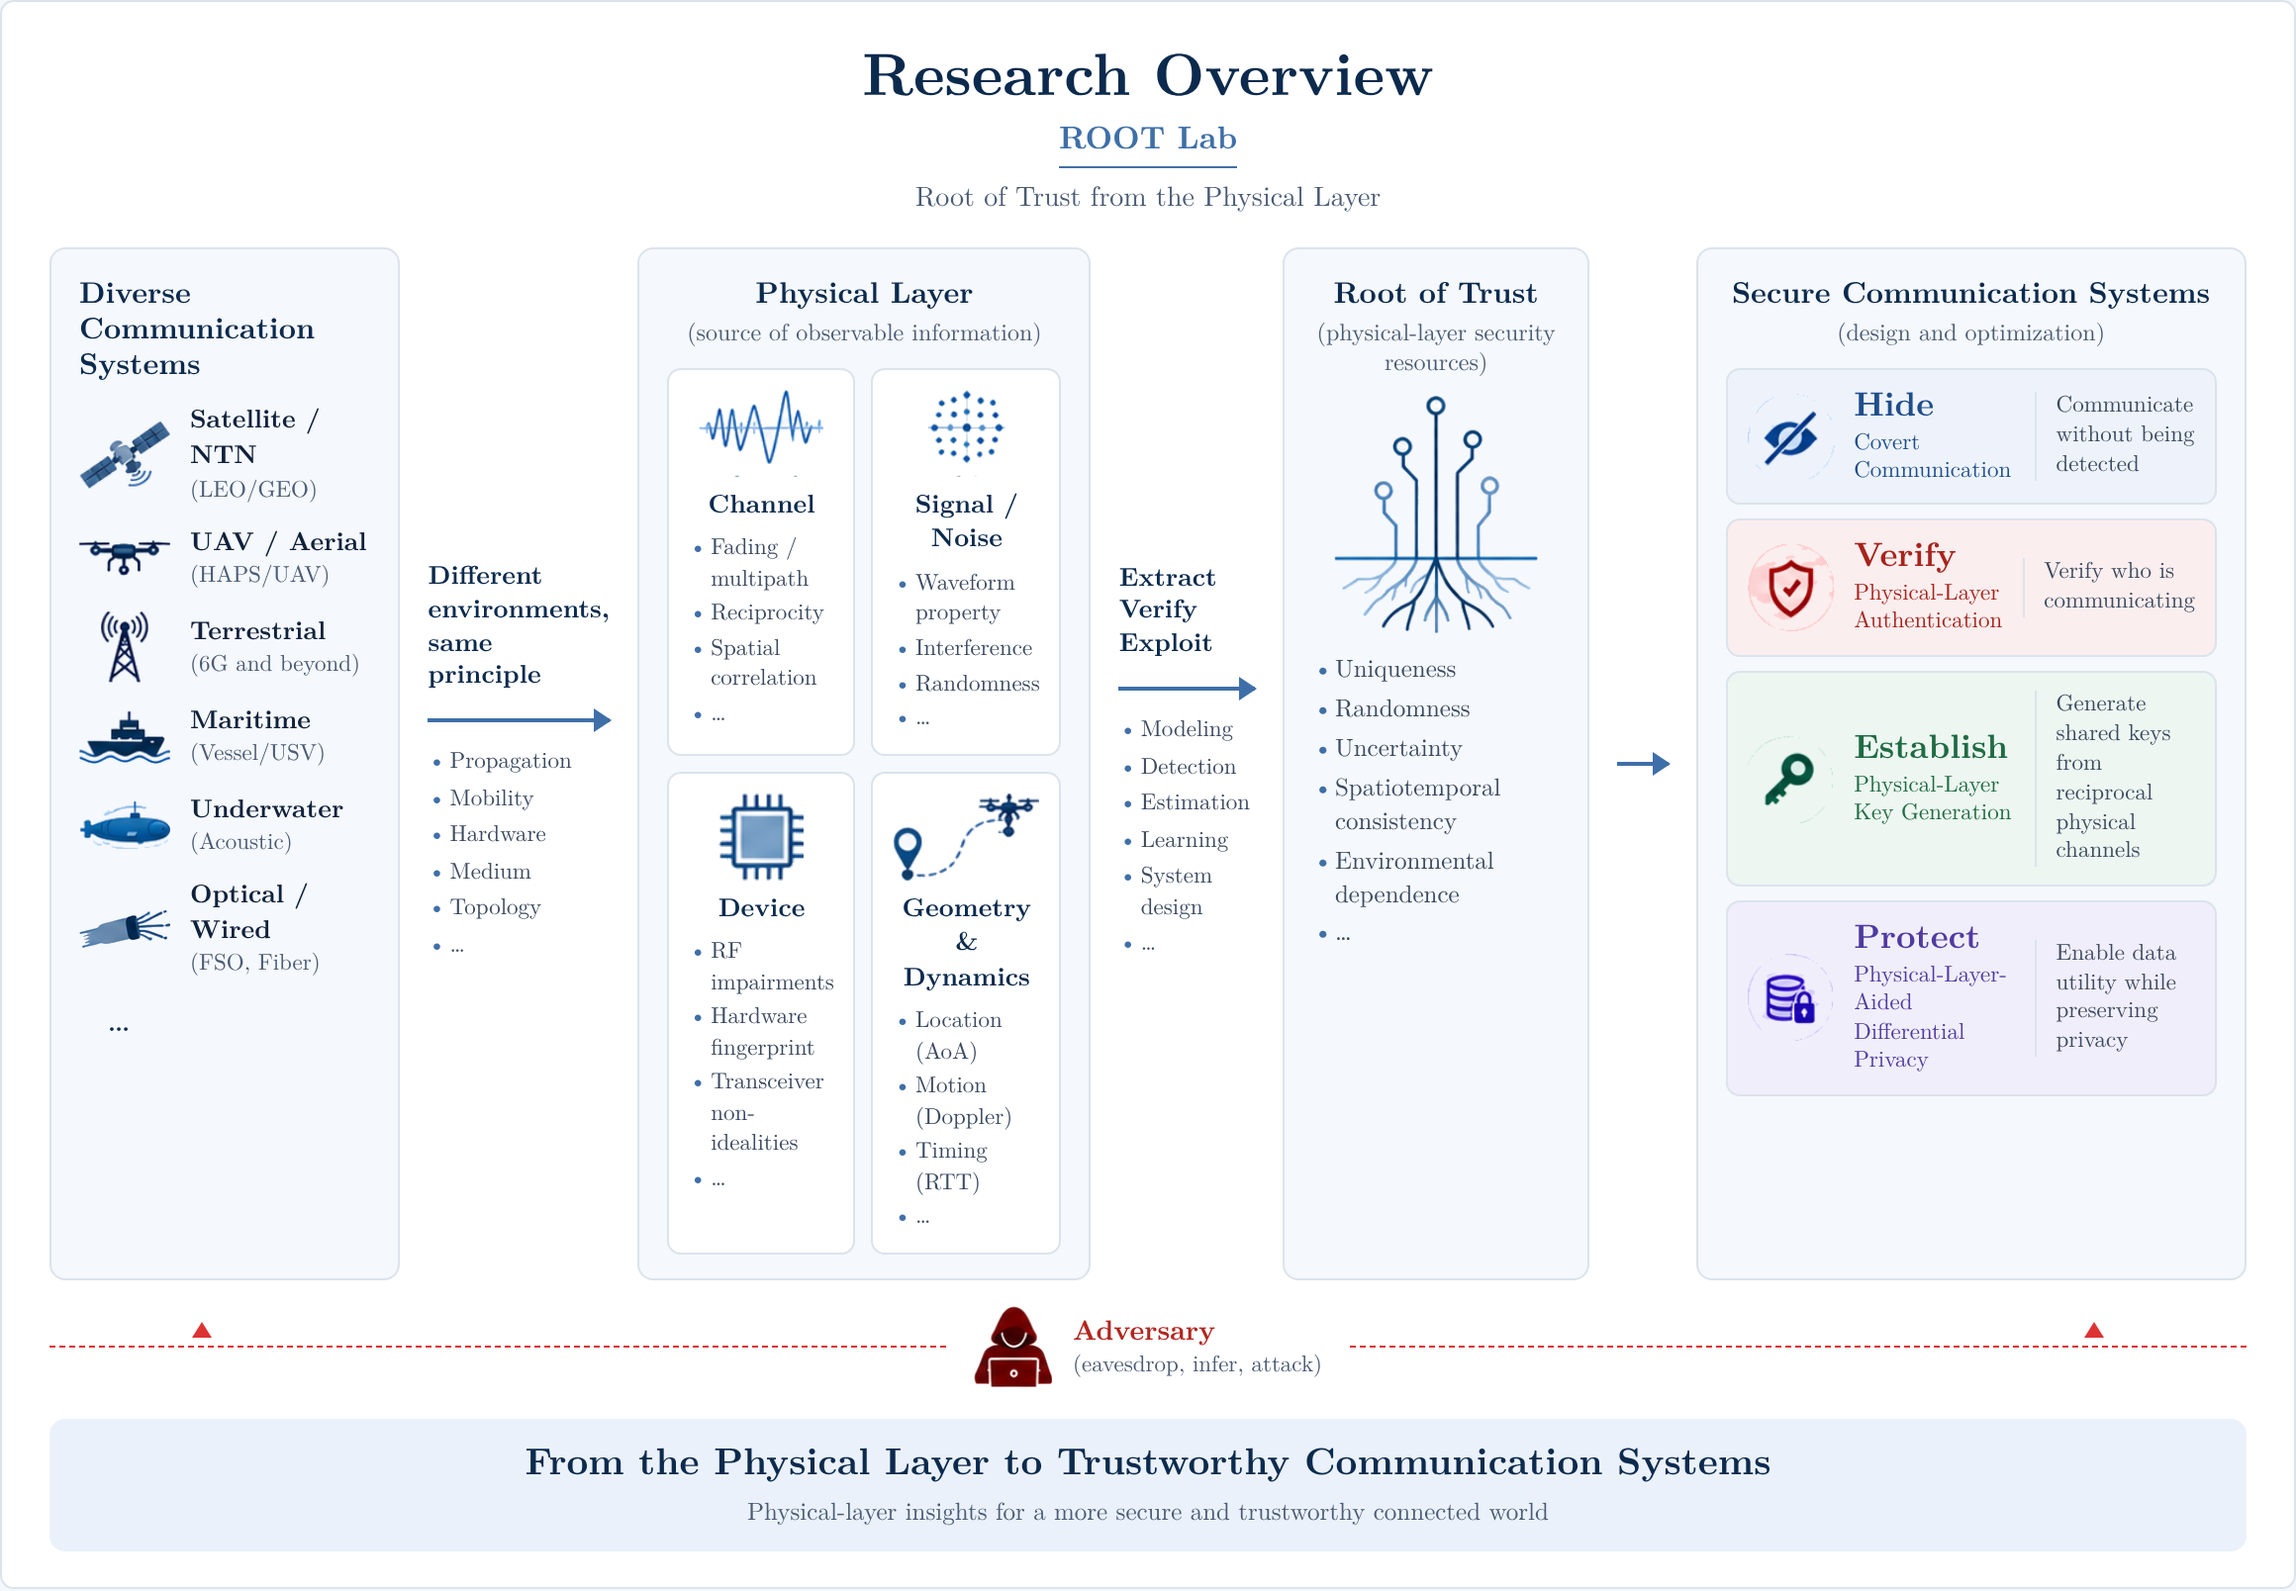
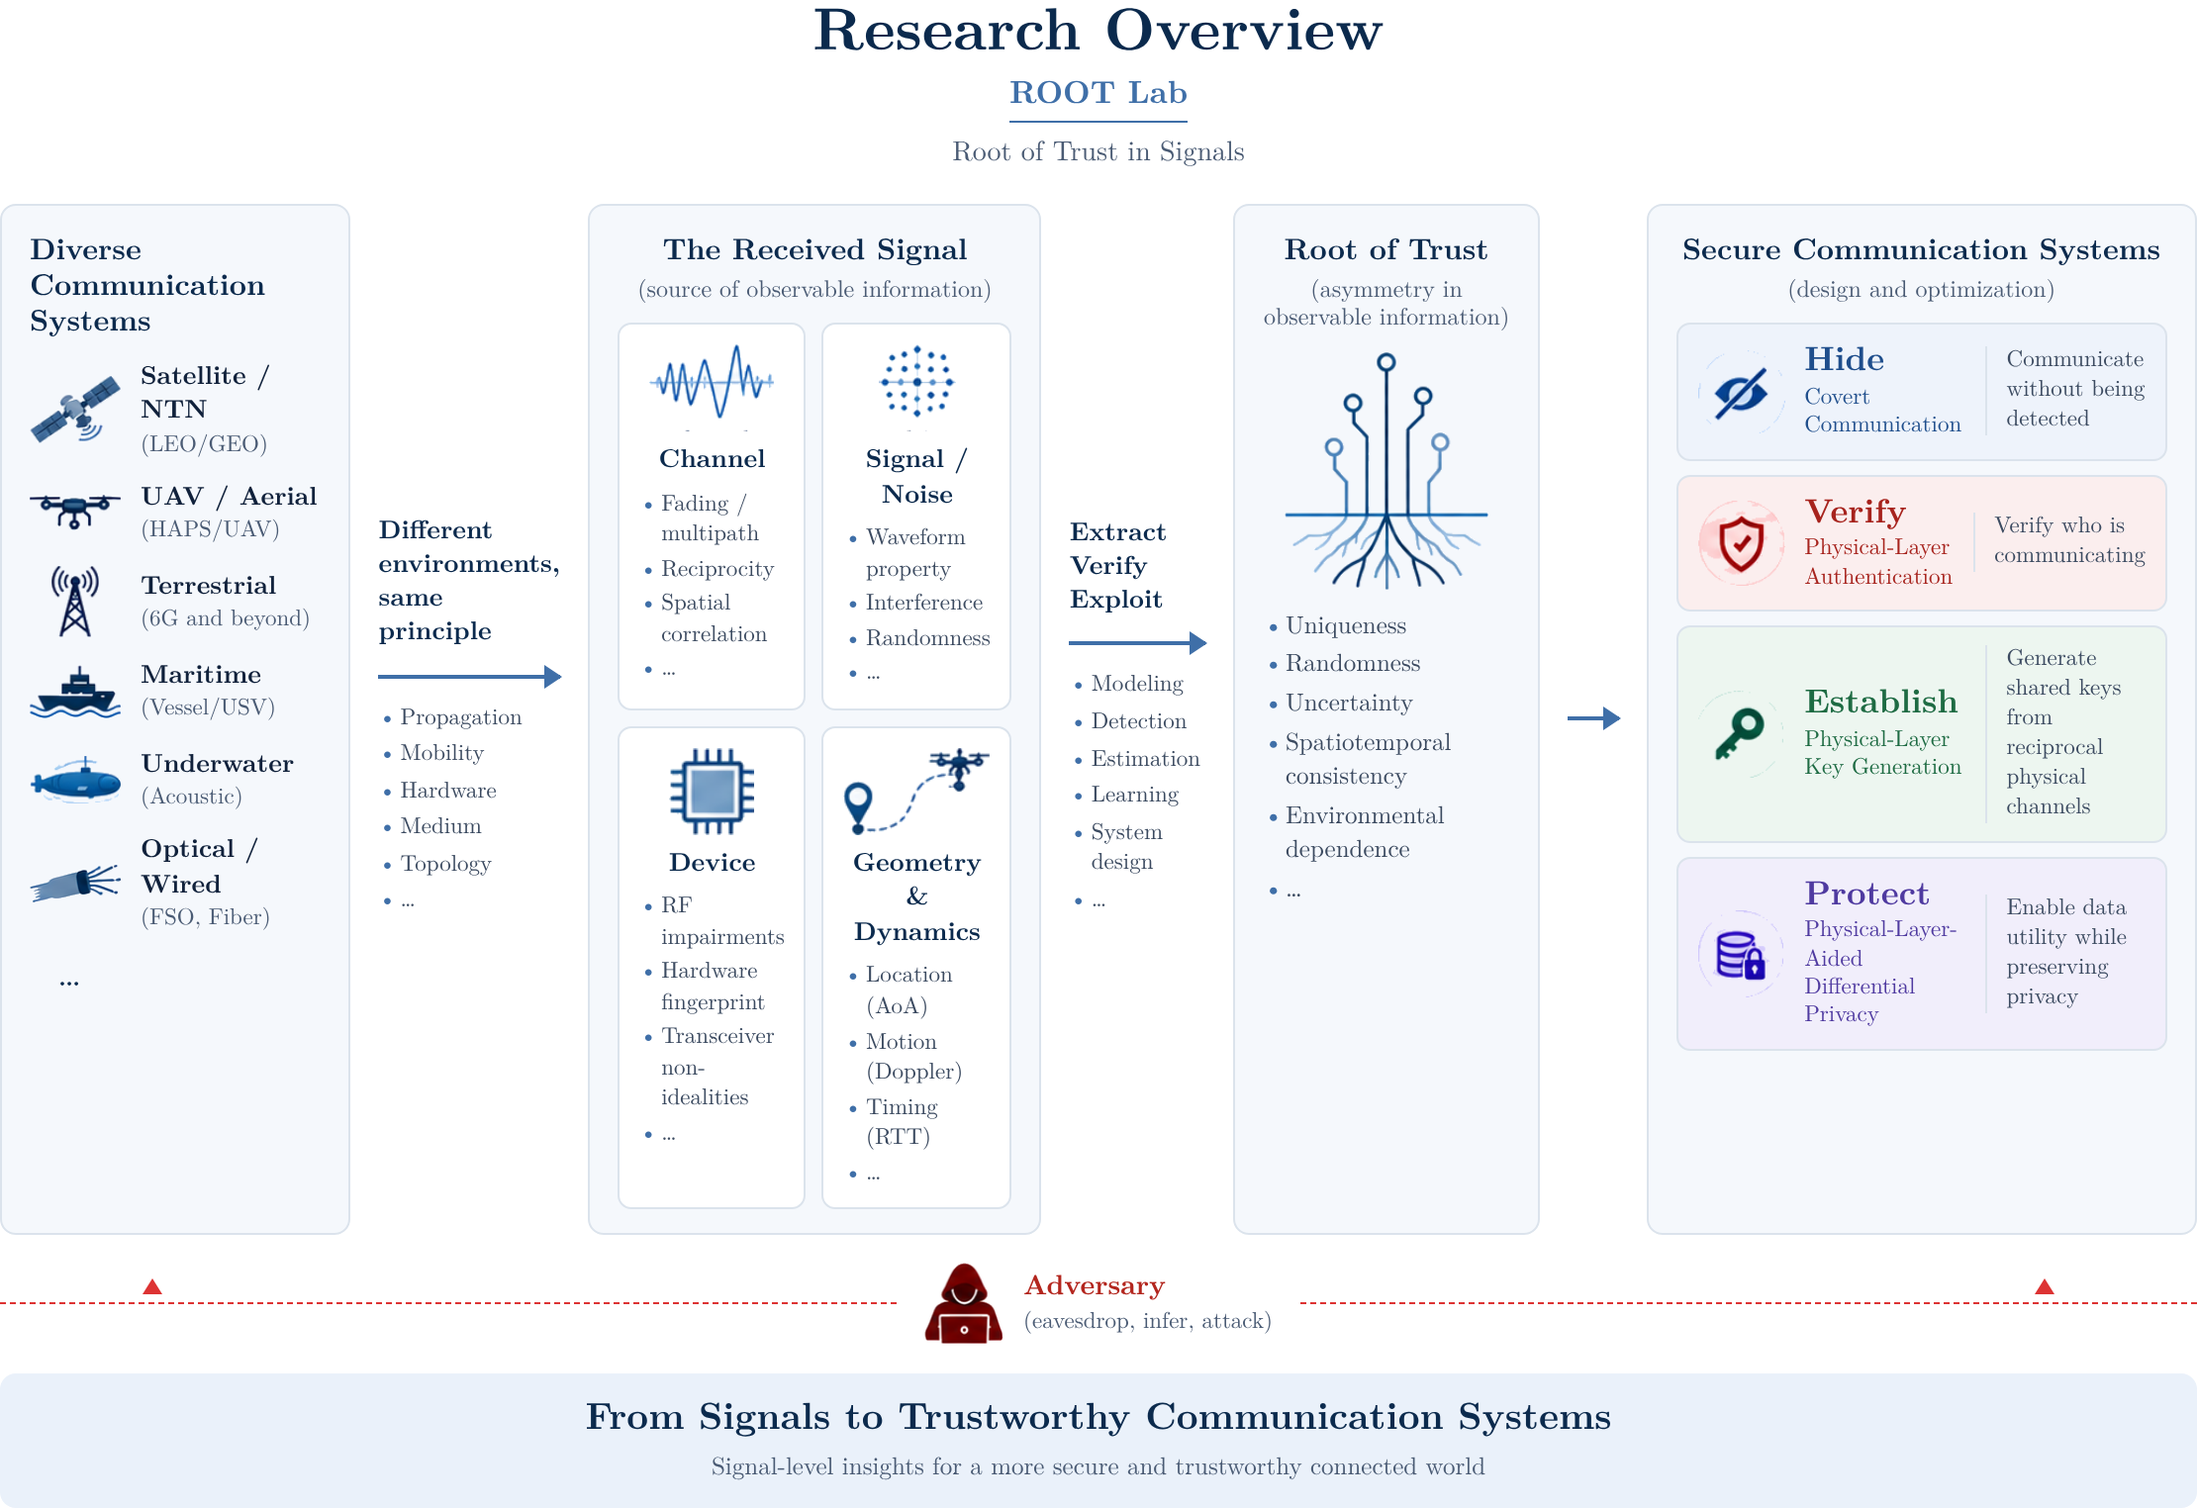
Reframe About and overview diagram around signals (#36)
- Home About (KR/EN): reframe from a physical-layer description to
  modeling the whole communication system (transmitter, channel,
  receiver, observer) and deriving security from the asymmetry in what
  each party infers from the same signal. Methods unchanged; no on-chip.
- Research overview diagram: relabel the middle band to "The Received
  Signal", the root-of-trust subtitle to "asymmetry in observable
  information", and the footer to "From Signals to Trustworthy
  Communication Systems"; regenerate overview-figure.png to match
  (cache-busted to v=2).

Claude-Session: https://claude.ai/code/session_01SH5JumREMWSvVFbqjGZATy

diff --git a/research.html b/research.html
@@ -174,20 +174,20 @@
       </div>
       <div class="objective-join" aria-hidden="true"><span></span><i>↓</i></div>
       <div class="design-outcome"><b>Secure communication system design</b><span>Each of the four objectives is achieved in the end by design. We decide how much power to send, which users to schedule, where to place a relay, when to probe the channel, and which threshold to test, so that the legitimate party keeps the advantage and the adversary does not. The figure below shows the whole path, from the systems we study, through the signals they exchange, to the four objectives.</span></div>
-      <figure class="systems-figure ov-figure"><div class="ov" role="img" aria-label="ROOT Lab research overview: diverse communication systems, the physical layer as a source of observable information, physical-layer security resources as the root of trust, and the four security objectives">
+      <figure class="systems-figure ov-figure"><div class="ov" role="img" aria-label="ROOT Lab research overview: diverse communication systems, the received signal as a source of observable information, the asymmetry in that information as a root of trust, and the four security objectives">
 <div class="ov-head"><div class="ov-title">Research Overview</div><div class="ov-lab">ROOT Lab</div><div class="ov-tag">Root of Trust in Signals</div></div>
 <div class="ov-flow">
 <section class="ov-col ov-sys"><h4>Diverse Communication Systems</h4><ul class="ov-syslist"><li><img src="assets/img/research/icons/satellite.png?v=1" alt="" loading="lazy"><span><b>Satellite / NTN</b><small>(LEO/GEO)</small></span></li><li><img src="assets/img/research/icons/uav.png?v=1" alt="" loading="lazy"><span><b>UAV / Aerial</b><small>(HAPS/UAV)</small></span></li><li><img src="assets/img/research/icons/tower.png?v=1" alt="" loading="lazy"><span><b>Terrestrial</b><small>(6G and beyond)</small></span></li><li><img src="assets/img/research/icons/ship.png?v=1" alt="" loading="lazy"><span><b>Maritime</b><small>(Vessel/USV)</small></span></li><li><img src="assets/img/research/icons/sub.png?v=1" alt="" loading="lazy"><span><b>Underwater</b><small>(Acoustic)</small></span></li><li><img src="assets/img/research/icons/fiber.png?v=1" alt="" loading="lazy"><span><b>Optical / Wired</b><small>(FSO, Fiber)</small></span></li><li class="ov-more">…</li></ul></section>
 <div class="ov-link"><b>Different environments, same principle</b><span class="ov-arrow" aria-hidden="true"></span><ul><li>Propagation</li><li>Mobility</li><li>Hardware</li><li>Medium</li><li>Topology</li><li>…</li></ul></div>
-<section class="ov-col ov-phy"><h4>Physical Layer<small>(source of observable information)</small></h4><div class="ov-phygrid"><div class="ov-card"><img src="assets/img/research/icons/channel.png?v=1" alt="" loading="lazy"><b>Channel</b><ul><li>Fading / multipath</li><li>Reciprocity</li><li>Spatial correlation</li><li>…</li></ul></div><div class="ov-card"><img src="assets/img/research/icons/noise.png?v=1" alt="" loading="lazy"><b>Signal / Noise</b><ul><li>Waveform property</li><li>Interference</li><li>Randomness</li><li>…</li></ul></div><div class="ov-card"><img src="assets/img/research/icons/device.png?v=1" alt="" loading="lazy"><b>Device</b><ul><li>RF impairments</li><li>Hardware fingerprint</li><li>Transceiver non-idealities</li><li>…</li></ul></div><div class="ov-card"><img src="assets/img/research/icons/geometry.png?v=1" alt="" loading="lazy"><b>Geometry &amp; Dynamics</b><ul><li>Location (AoA)</li><li>Motion (Doppler)</li><li>Timing (RTT)</li><li>…</li></ul></div></div></section>
+<section class="ov-col ov-phy"><h4>The Received Signal<small>(source of observable information)</small></h4><div class="ov-phygrid"><div class="ov-card"><img src="assets/img/research/icons/channel.png?v=1" alt="" loading="lazy"><b>Channel</b><ul><li>Fading / multipath</li><li>Reciprocity</li><li>Spatial correlation</li><li>…</li></ul></div><div class="ov-card"><img src="assets/img/research/icons/noise.png?v=1" alt="" loading="lazy"><b>Signal / Noise</b><ul><li>Waveform property</li><li>Interference</li><li>Randomness</li><li>…</li></ul></div><div class="ov-card"><img src="assets/img/research/icons/device.png?v=1" alt="" loading="lazy"><b>Device</b><ul><li>RF impairments</li><li>Hardware fingerprint</li><li>Transceiver non-idealities</li><li>…</li></ul></div><div class="ov-card"><img src="assets/img/research/icons/geometry.png?v=1" alt="" loading="lazy"><b>Geometry &amp; Dynamics</b><ul><li>Location (AoA)</li><li>Motion (Doppler)</li><li>Timing (RTT)</li><li>…</li></ul></div></div></section>
 <div class="ov-link"><b class="ov-steps"><span>Extract</span><span>Verify</span><span>Exploit</span></b><span class="ov-arrow" aria-hidden="true"></span><ul><li>Modeling</li><li>Detection</li><li>Estimation</li><li>Learning</li><li>System design</li><li>…</li></ul></div>
-<section class="ov-col ov-root"><h4>Root of Trust<small>(physical-layer security resources)</small></h4><img src="assets/img/research/icons/roots.png?v=1" alt="" loading="lazy"><ul><li>Uniqueness</li><li>Randomness</li><li>Uncertainty</li><li>Spatiotemporal consistency</li><li>Environmental dependence</li><li>…</li></ul></section>
+<section class="ov-col ov-root"><h4>Root of Trust<small>(asymmetry in observable information)</small></h4><img src="assets/img/research/icons/roots.png?v=1" alt="" loading="lazy"><ul><li>Uniqueness</li><li>Randomness</li><li>Uncertainty</li><li>Spatiotemporal consistency</li><li>Environmental dependence</li><li>…</li></ul></section>
 <div class="ov-link ov-link-short"><span class="ov-arrow" aria-hidden="true"></span></div>
 <section class="ov-col ov-sec"><h4>Secure Communication Systems<small>(design and optimization)</small></h4><div class="ov-objs"><div class="ov-obj ov-hide"><img src="assets/img/research/icons/hide.png?v=1" alt="" loading="lazy"><span class="ov-objtxt"><b>Hide</b><i>Covert Communication</i></span><span class="ov-objdesc">Communicate without being detected</span></div><div class="ov-obj ov-verify"><img src="assets/img/research/icons/verify.png?v=1" alt="" loading="lazy"><span class="ov-objtxt"><b>Verify</b><i>Physical-Layer Authentication</i></span><span class="ov-objdesc">Verify who is communicating</span></div><div class="ov-obj ov-establish"><img src="assets/img/research/icons/establish.png?v=1" alt="" loading="lazy"><span class="ov-objtxt"><b>Establish</b><i>Physical-Layer Key Generation</i></span><span class="ov-objdesc">Generate shared keys from reciprocal physical channels</span></div><div class="ov-obj ov-protect"><img src="assets/img/research/icons/protect.png?v=1" alt="" loading="lazy"><span class="ov-objtxt"><b>Protect</b><i>Physical-Layer-Aided Differential Privacy</i></span><span class="ov-objdesc">Enable data utility while preserving privacy</span></div></div></section>
 </div>
 <div class="ov-adv"><span class="ov-advline ov-advline-l" aria-hidden="true"></span><div class="ov-advbox"><img src="assets/img/research/icons/adversary.png?v=1" alt="" loading="lazy"><span><b>Adversary</b><small>(eavesdrop, infer, attack)</small></span></div><span class="ov-advline ov-advline-r" aria-hidden="true"></span></div>
-<div class="ov-foot"><b>From the Physical Layer to Trustworthy Communication Systems</b><span>Physical-layer insights for a more secure and trustworthy connected world</span></div>
-</div><figcaption class="ov-dl"><a href="assets/img/research/overview-figure.png?v=1" target="_blank" rel="noopener">Open as image ↗</a></figcaption></figure>
+<div class="ov-foot"><b>From Signals to Trustworthy Communication Systems</b><span>Signal-level insights for a more secure and trustworthy connected world</span></div>
+</div><figcaption class="ov-dl"><a href="assets/img/research/overview-figure.png?v=2" target="_blank" rel="noopener">Open as image ↗</a></figcaption></figure>
     </div>
   </section>
 

diff --git a/index.html b/index.html
@@ -68,8 +68,8 @@
       <div class="about-col">
         <div class="section-label-row"><h2 class="section-title">About</h2></div>
       <div class="about-grid">
-        <div><h3>보안통신 연구실</h3><p>ROOT Lab은 보안의 기반을 계산적 어려움에만 두지 않고, 통신시스템의 물리계층이 제공하는 물리적·통계적 구조까지 확장하여 보안을 설계합니다. 채널 랜덤성, 디바이스 고유성, 위치와 움직임, 간섭과 불확실성, 채널 노이즈가 수신 신호에 남기는 특성을 활용하거나 제어하여 은닉통신, 물리계층 인증, 물리계층 키 생성, 물리계층 기반 차등 프라이버시를 연구하고, 이를 바탕으로 통신시스템을 설계하고 최적화합니다.</p></div>
-        <div><h3>ROOT Lab</h3><p>ROOT Lab grounds security not only in computational hardness but also in the physical and statistical structure of communication systems. Channel randomness, device-specific impairments, geometry and mobility, interference and uncertainty, and channel noise all leave traces on received signals; we exploit or control those traces for covert communication, physical-layer authentication, physical-layer key generation, and physical-layer-aided differential privacy, and build on them to design and optimize communication systems.</p></div>
+        <div><h3>보안통신 연구실</h3><p>ROOT Lab은 보안의 기반을 계산적 어려움에만 두지 않고, 통신 시스템 전체 &mdash; 송신기·채널·수신기·관찰자 &mdash; 를 함께 모델링하여 각 주체가 같은 수신 신호에서 얻을 수 있는 정보의 차이로부터 보안을 설계합니다. 채널의 랜덤성, 디바이스 고유성, 위치와 움직임, 간섭과 불확실성, 잡음이 신호에 남기는 특성을 활용하거나 제어하여 은닉통신, 물리계층 인증, 물리계층 키 생성, 물리계층 기반 차등 프라이버시를 연구하고, 이를 바탕으로 통신 시스템을 설계·최적화합니다.</p></div>
+        <div><h3>ROOT Lab</h3><p>ROOT Lab grounds security not in computational hardness alone but in the structure of the communication system itself. We model the system as a whole &mdash; transmitter, channel, receiver, and observer &mdash; and derive security from the difference in what each party can infer from the same received signal. Channel randomness, device-specific impairments, geometry and mobility, interference and uncertainty, and noise all leave traces on signals; we exploit or control those traces for covert communication, physical-layer authentication, physical-layer key generation, and physical-layer-aided differential privacy, and build on them to design and optimize communication systems.</p></div>
       </div>
       </div>
       <div class="openings-col" id="open-positions">
